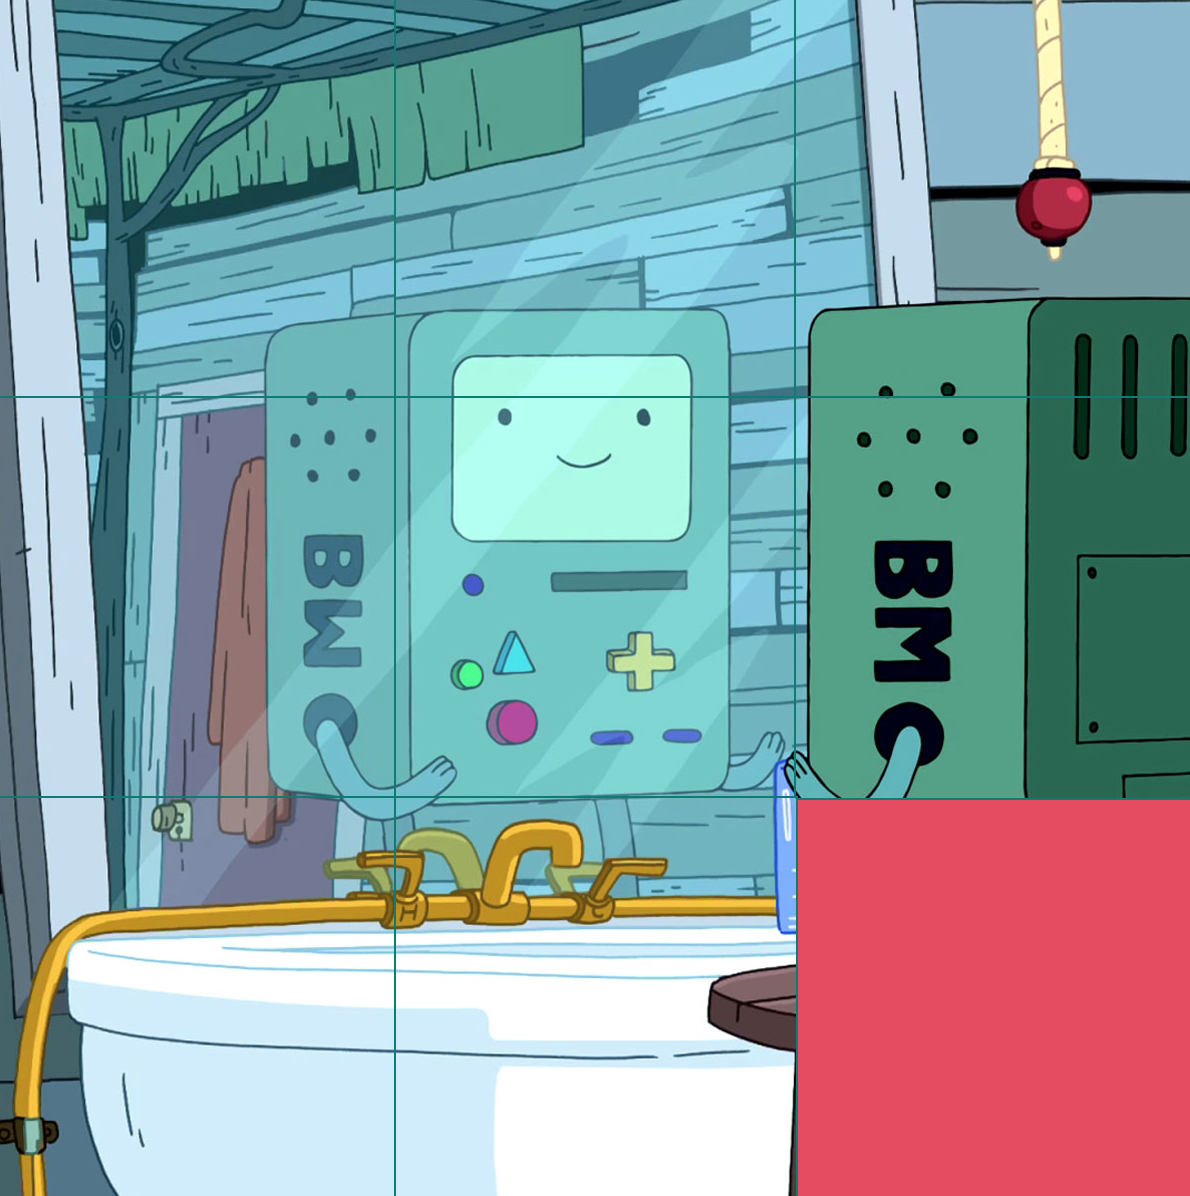
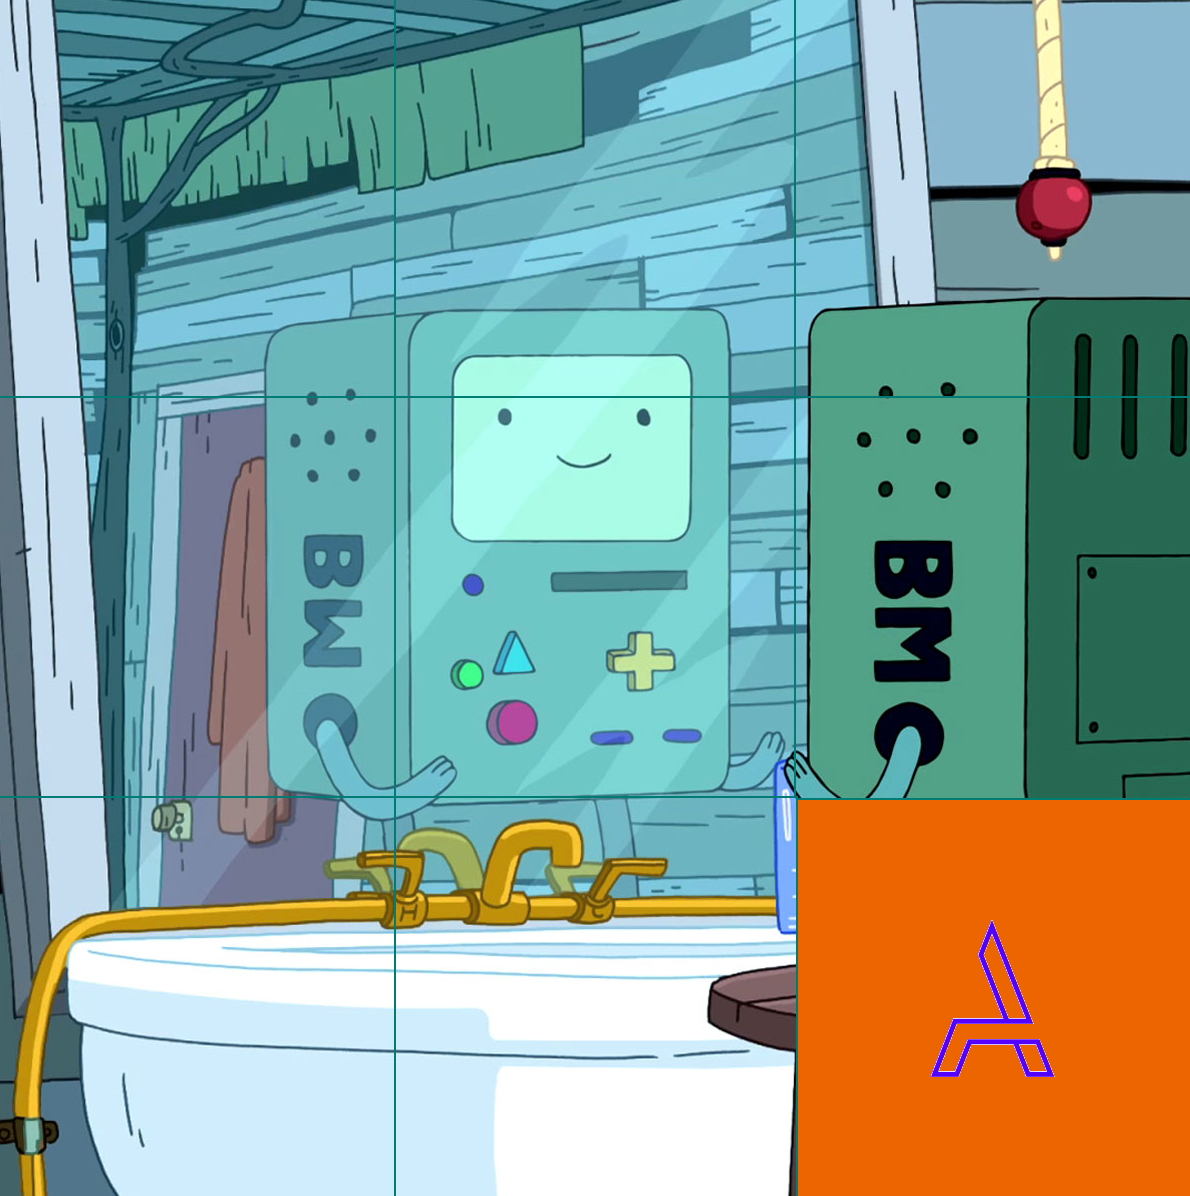
I improve some cosmetics changes

diff --git a/js/juegoMejorado.js b/js/juegoMejorado.js
@@ -1,12 +1,25 @@
-// TODO:
-// borrar el arreglo de movimientos una vez ganado el juego.
-// mostrar en pantalla la cantidad de movimientos que la persona viene ejecutando.
-// 
+// aca estoy viendo como meto dificultades
+// var lista = document.getElementById('lista-instrucciones')
+//
+// lista
+// <ul id="lista-instrucciones">…</ul>
+// var ficha = document.createElement('div')
+// undefined
+// ficha
+// <div></div>
+// ficha.innerText = "prueba"
+// "prueba"
+// ficha
+// <div>prueba</div>
+// lista.appendChild(ficha)
+// <div>prueba</div>
+
+
 
 
 
 // Arreglo que contiene las intrucciones del juego
-var instrucciones = ['Mueve las piezas para arriba abajo izquierda derecha hasta que obtengas la imagen deseada.', 'Tomate un mate y divertite!'];
+var instrucciones = ['Mueve las piezas para arriba abajos izquierda derecha hasta que obtengas la imagen deseada.', 'Tomate un mate y divertite!'];
 // Arreglo para ir guardando los movimientos que se vayan realizando
 var movimientos = [];
 
@@ -18,6 +31,12 @@ var grilla = [
     [7, 8, 9]
 ];
 
+//para el Modal
+var modal = document.getElementById('myModal');
+modal.addEventListener('click', function(){
+  modal.style.display = "none";
+});
+
 /* Estas dos variables son para guardar la posición de la pieza vacía.
 Esta posición comienza siendo la [2, 2]*/
 var filaVacia = 2;
@@ -28,9 +47,10 @@ Cada elemento de este arreglo deberá ser mostrado en la lista con id 'lista-ins
 Para eso deberás usar la función ya implementada mostrarInstruccionEnLista().
 Podés ver su implementación en la ultima parte de este codigo. */
 function mostrarInstrucciones(instrucciones) {
+    //COMPLETAR
     for (var i = 0; i < instrucciones.length; i++) {
       mostrarInstruccionEnLista(instrucciones[i], 'lista-instrucciones')
-    };
+    }
 }
 
 /* COMPLETAR: Crear función que agregue la última dirección al arreglo de movimientos
@@ -57,47 +77,9 @@ function chequearSiGano() {
 }
 
 // Implementar alguna forma de mostrar un cartel que avise que ganaste el juego
-// Listener para cerrar el cartel Modal Css - Mensaje has ganado!
-var modal = document.getElementById('myModal');
-modal.addEventListener('click', function(){
-  modal.style.display = "none";
-});
-// Funcion para mostrar el cartel Modal Css - Mensaje has ganado!
 function mostrarCartelGanador() {
+    //COMPLETAR
     modal.style.display = "block";
-    // FIXME: Esta bien llamarla desde aca adentro? Me uele con olor feoooooo ...
-    mostrarCincoUltimosMovimientos(movimientos);
-}
-
-function mostrarCincoUltimosMovimientos(arrelgoDeMovimientos) {
-  // FIXME: debo decidir como y en que elemento del dom agrego las flechas.
-  var listaCincoMovimientos = document.getElementById('cinco-mov');
-  var comienzo = arrelgoDeMovimientos.length - 5;
-for (var i = comienzo; i < arrelgoDeMovimientos.length; i++) {
-  var unMovimiento = document.createElement('p');
-  switch (arrelgoDeMovimientos[i]) {
-    case codigosDireccion.ARRIBA:
-      unMovimiento.innerText = '↑';
-      listaCincoMovimientos.appendChild(unMovimiento);
-      console.log('↑');
-      break;
-    case codigosDireccion.ABAJO:
-      unMovimiento.innerText = '↓';
-      listaCincoMovimientos.appendChild(unMovimiento);
-      console.log('↓');
-      break;
-    case codigosDireccion.DERECHA:
-      unMovimiento.innerText = '→';
-      listaCincoMovimientos.appendChild(unMovimiento);
-      console.log('→');
-      break;
-    case codigosDireccion.IZQUIERDA:
-      unMovimiento.innerText = '←';
-      listaCincoMovimientos.appendChild(unMovimiento);
-      console.log('←');
-      break;
-  }
-}
 }
 
 /* Función que intercambia dos posiciones en la grilla.
@@ -119,6 +101,7 @@ function intercambiarPosicionesGrilla(filaPos1, columnaPos1, filaPos2, columnaPo
 
 // Actualiza la posición de la pieza vacía
 function actualizarPosicionVacia(nuevaFila, nuevaColumna) {
+    //COMPLETAR
     filaVacia = nuevaFila;
     columnaVacia = nuevaColumna;
 }
@@ -126,6 +109,7 @@ function actualizarPosicionVacia(nuevaFila, nuevaColumna) {
 
 // Para chequear si la posicón está dentro de la grilla.
 function posicionValida(fila, columna) {
+    //COMPLETAR
     var width = grilla.length;
     var height = grilla[0].length;
     // return (0 <= fila) && (fila <=2) && (0 <= columna) && (columna <=2)
@@ -143,22 +127,28 @@ function moverEnDireccion(direccion) {
   if (direccion === codigosDireccion.ABAJO) {
     nuevaFilaPiezaVacia = filaVacia + 1;
     nuevaColumnaPiezaVacia = columnaVacia;
+    //nuevaFilaPiezaVacia = filaVacia - 1;
+    //nuevaColumnaPiezaVacia = columnaVacia;
   }
 
   // Mueve pieza hacia arriba, reemplazandola con la blanca
   else if (direccion === codigosDireccion.ARRIBA) {
     nuevaFilaPiezaVacia = filaVacia - 1;
     nuevaColumnaPiezaVacia = columnaVacia;
+    //nuevaFilaPiezaVacia = filaVacia + 1;
+    //nuevaColumnaPiezaVacia = columnaVacia;
   }
 
   // Mueve pieza hacia la derecha, reemplazandola con la blanca
   else if (direccion === codigosDireccion.DERECHA) {
+    //COMPLETAR
     nuevaFilaPiezaVacia = filaVacia;
     nuevaColumnaPiezaVacia = columnaVacia + 1;
   }
 
   // Mueve pieza hacia la izquierda, reemplazandola con la blanca
   else if (direccion === codigosDireccion.IZQUIERDA) {
+    // COMPLETAR
     nuevaFilaPiezaVacia = filaVacia;
     nuevaColumnaPiezaVacia = columnaVacia - 1;
   }
@@ -172,6 +162,7 @@ function moverEnDireccion(direccion) {
     actualizarPosicionVacia(nuevaFilaPiezaVacia, nuevaColumnaPiezaVacia);
     //COMPLETAR: Agregar la dirección del movimiento al arreglo de movimientos
     agregarUltimaDireccion(direccion);
+
   }
 }
 

diff --git a/juego.html b/juego.html
@@ -7,12 +7,11 @@
   </head>
   <body>
     <div class="col-40">
-
       <div id="titulo">
-        Titulo
+        Rompecabezas
       </div>
       <div id="instrucciones">
-        Instrucciones
+        Instrucciones:
         <ul id="lista-instrucciones">
         </ul>
       </div>
@@ -23,11 +22,10 @@
       </div>
       <div id="ultimo-mov">
         <div id="flecha" class="texto-centrado">
-
         </div>
       </div>
-
     </div>
+
     <div class="col-60">
       <div class="tablero" id="juego">
         <div class="pieza" id="pieza1"><img src="images/10.jpg" alt=""></div>
@@ -38,22 +36,29 @@
         <div class="pieza" id="pieza6"><img src="images/60.jpg" alt=""></div>
         <div class="pieza" id="pieza7"><img src="images/70.jpg" alt=""></div>
         <div class="pieza" id="pieza8"><img src="images/80.jpg" alt=""></div>
-        <div class="pieza" id="pieza9"><img src="#" alt=""></div>
+        <div class="pieza" id="pieza9"><img src="images/90.jpg" alt=""></div>
       </div>
     </div>
+
     <div class="footer" id="footer">
-      algunos derechos reservados | Acamica & elcharly-2018
+      algunos derechos reservados | Acamica & elcharly - 2018
     </div>
-    <!-- The Modal -->
-<div id="myModal" class="modal">
 
-  <!-- Modal content -->
-  <div class="modal-content">
-    <span class="close">&times;</span>
-    <p>Some text in the Modal..</p>
-  </div>
-
-</div>
+  <!-- Modal Css - Mensaje has ganado -->
+    <div id="myModal" class="modal">
+      <!-- Modal content -->
+      <div class="modal-content">
+        <span class="close">&times;</span>
+        <p>Felicidades, en hora buena has ganado!</p>
+        <p>Tus ultimos 5 movimientos fueron ...</p>
+        <div id="cinco-mov">
+          <div id="flecha" class="texto-centrado">
+          </div>
+        </div>
+        <p>Y has demoderado tantos minutos</p>
+        <p></p>
+      </div>
+    </div>
   <!--  <script src="js/juego.js"></script> -->
     <script src="js/juego.js"></script>
   </body>

diff --git a/css/juego.css b/css/juego.css
@@ -1,6 +1,12 @@
+/*Con el permiso de La Foca Loca S.A. me tomo el
+atrvimiento de agregar una fuente para personalizar el estilado*/
+@import url('https://fonts.googleapis.com/css?family=Jua');
+/* Se utilizo la siguiente paleta de colores: http://www.color-hex.com/color-palette/61875*/
 /*Código armado por La Foca Loca S.A. No modificar*/
 body {
-  font-family: Arial, sans-serif;
+  /*font-family: Arial, sans-serif;*/
+  font-family: 'Jua', sans-serif;
+  color: #3a3532;
   width: 940px;
   margin: 5% auto;
   min-height: 100%;
@@ -16,12 +22,13 @@ li {
 }
 li::before {
   content: "• ";
-  color: #EC6778;
+  /*color: #EC6778;*/
+  color: #ec6500;
 }
 
 .col-40 h1 {
   font-size: 20px;
-  color: #E84A5F;
+  color: #3a3532;
 }
 
 .col-40, .col-60 {
@@ -30,7 +37,7 @@ li::before {
 }
 .col-40 {
   float: left;
-  background: #FFF;
+  background: #a4a09f;
   box-sizing: border-box;
   width: 340px;
   height: 600px;
@@ -45,13 +52,15 @@ li::before {
 
 .col-60 {
   float: right;
-  background: #E84A5F;
+  background: #ec6500;
   width: 600px;
   height: 600px;
 }
 
 #titulo {
-  background: #EC6778;
+  /*background: #EC6778;*/
+  background: #ec6500;
+  text-align: center;
 }
 
 #juego div {
@@ -61,7 +70,9 @@ li::before {
   text-align: center;
   animation: fadein 2s;
   height: 200px;
-  border: 0.5px #007c74 solid;
+  /*border: 0.5px #007c74 solid;*/
+  border: 0.5px #49423f solid;
+
 }
 
 #juego img{
@@ -71,6 +82,7 @@ li::before {
 
 #flecha{
   font-size: 60px;
+  color: #ec6500;
 }
 
 .texto-centrado {
@@ -79,6 +91,7 @@ li::before {
 
 .footer {
   clear: both;
+  text-align: right;
 }
 
 
@@ -110,7 +123,7 @@ li::before {
     width: 80%;
 }
 
-/* The Close Button */
+/* El boton cerrar */
 .close {
     color: #aaaaaa;
     float: right;
